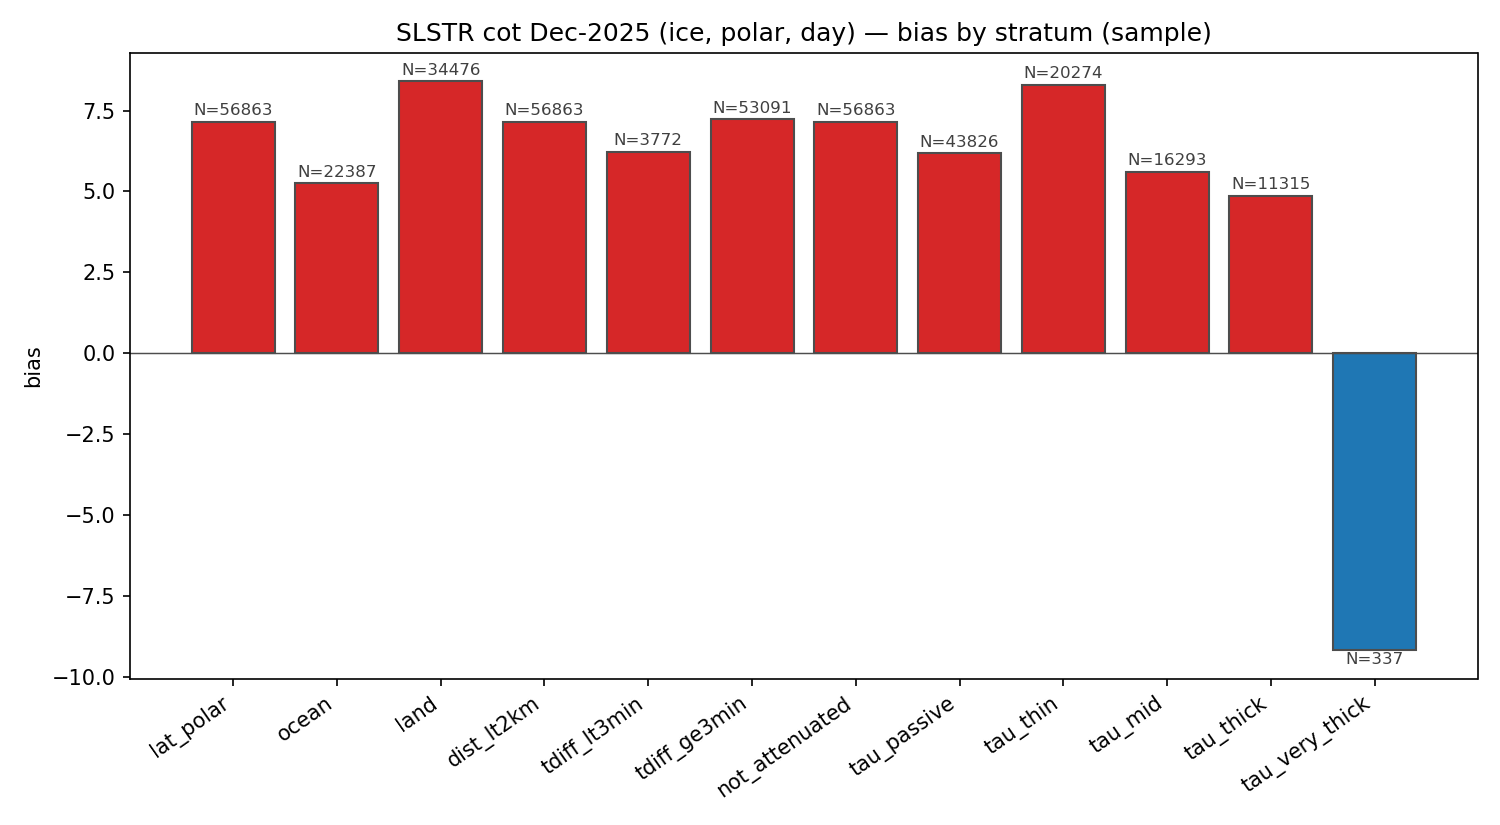
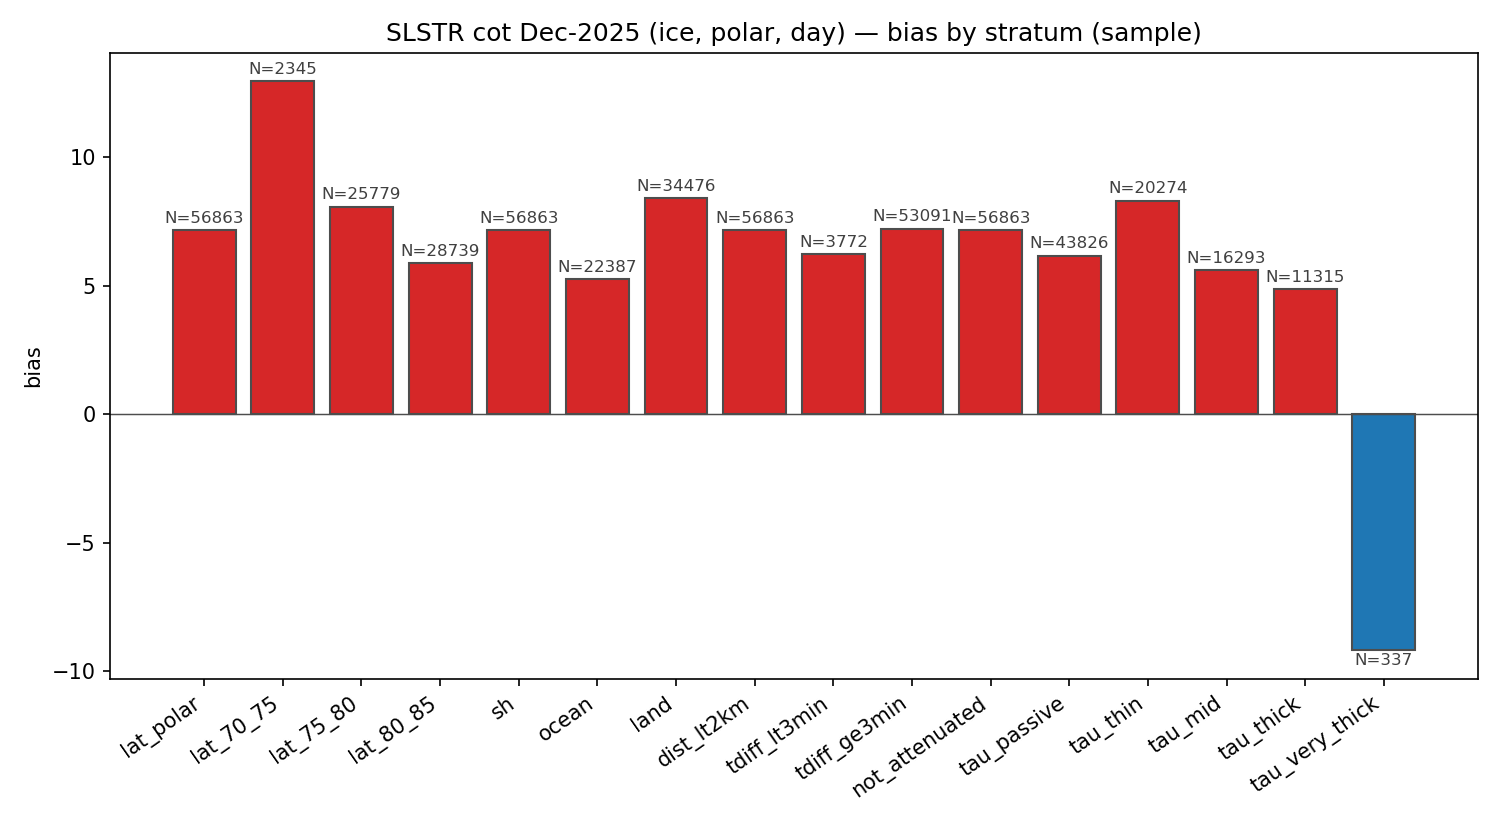
slstr: CER validation + polar sub-band/hemisphere strata + Δt/distance sensitivity
- CER-water validation (rode in the synergy collocation): bias +8 um, R~-0.1 -
  the weakest SLSTR variable in polar daytime (SWIR radius over bright ice/high
  SZA). New report docs/reports/slstr_cer_water_2025-12.md.
- Added polar sub-bands (70-75/75-80/80-85) + NH/SH hemisphere strata to
  statistics.py (additive; N=0 for geostationary SEVIRI). Reveals: CTH
  underestimation grows poleward and Arctic (-0.90 km) is ~3x Antarctic (-0.28);
  water/ice COT bias concentrated at 70-75deg (marginal ice zone), near-zero by
  80-85deg.
- Delta-t/distance sensitivity table (scripts/slstr_sensitivity_table.py):
  CTH bias/RMSE/R invariant across Dt 15-60 min x dist 1-3 km.
- Regenerated all stats CSVs + by-stratum figures; updated CTH & water-COT reports.

diff --git a/scripts/slstr_sensitivity_table.py b/scripts/slstr_sensitivity_table.py
@@ -1,0 +1,101 @@
+"""CTH sensitivity to the collocation thresholds (Δt and spatial distance).
+
+Shows the headline SLSTR CTH statistics are insensitive to the collocation
+thresholds — the defence for the 60-min / nearest-pixel choices. Computed from
+the existing full-month CTH matches (collocated at 60 min), so Δt is swept
+15→60 min and distance <1/<2/<3 km by post-hoc filtering (no re-collocation).
+The Δt sweep to 120 min is covered separately by figures/slstr_dt_sweep/.
+
+Usage: python scripts/slstr_sensitivity_table.py
+"""
+from __future__ import annotations
+
+import glob
+from pathlib import Path
+
+import matplotlib
+matplotlib.use("Agg")
+import matplotlib.pyplot as plt
+import numpy as np
+import pandas as pd
+
+OUT = Path("figures/slstr_sensitivity")
+OUT.mkdir(parents=True, exist_ok=True)
+O, A = "cth_orac_corrected_km", "cth_atlid_thick_km"
+DT_MIN = [15, 30, 45, 60]
+DIST_KM = [1, 2, 3]
+
+
+def load_qc_strict() -> pd.DataFrame:
+    paths = sorted(glob.glob("validation_data/slstr_cth_2025-12/matches_cth_*.csv"))
+    df = pd.concat([pd.read_csv(p) for p in paths], ignore_index=True)
+    # qc_strict base filter (mirrors statistics.CTH_QC_MODES['qc_strict'])
+    m = (
+        (df["valid_match"] == True)
+        & (df["cldmask_orac"] == 1)
+        & np.isfinite(df[O]) & np.isfinite(df[A])
+        & (df["quality_status_atlid"] == 0)
+        & (df["confidence_atlid"] >= 5)
+        & (df[A] <= df["tropopause_km_atlid"] + 2)
+    )
+    return df[m].copy()
+
+
+def main() -> int:
+    d = load_qc_strict()
+    print(f"qc_strict base: {len(d):,} profiles")
+    rows = []
+    for dt in DT_MIN:
+        for dc in DIST_KM:
+            s = d[(d["time_diff_s"] <= dt * 60) & (d["distance_km"] < dc)]
+            if len(s) < 50:
+                rows.append(dict(dt_min=dt, dist_km=dc, n=len(s),
+                                 bias=np.nan, rmse=np.nan, r=np.nan))
+                continue
+            diff = s[O] - s[A]
+            rows.append(dict(
+                dt_min=dt, dist_km=dc, n=len(s),
+                bias=float(diff.mean()),
+                rmse=float(np.sqrt((diff**2).mean())),
+                r=float(np.corrcoef(s[O], s[A])[0, 1]),
+            ))
+    t = pd.DataFrame(rows)
+    t.to_csv(OUT / "slstr_cth_sensitivity.csv", index=False)
+
+    # heatmaps of bias / RMSE / R over the (Δt, distance) grid
+    fig, ax = plt.subplots(1, 3, figsize=(15, 4))
+    for k, (col, label, cmap) in enumerate([
+        ("bias", "bias [km]", "RdBu_r"),
+        ("rmse", "RMSE [km]", "viridis"),
+        ("r", "Pearson R", "viridis"),
+    ]):
+        piv = t.pivot(index="dist_km", columns="dt_min", values=col)
+        vlim = max(abs(np.nanmin(piv.values)), abs(np.nanmax(piv.values)))
+        im = ax[k].imshow(piv.values, cmap=cmap, aspect="auto",
+                          vmin=-vlim if col == "bias" else None,
+                          vmax=vlim if col == "bias" else None)
+        ax[k].set_xticks(range(len(DT_MIN))); ax[k].set_xticklabels(DT_MIN)
+        ax[k].set_yticks(range(len(DIST_KM))); ax[k].set_yticklabels(DIST_KM)
+        ax[k].set_xlabel("Δt window [min]"); ax[k].set_ylabel("distance cap [km]")
+        ax[k].set_title(label)
+        for (i, j), v in np.ndenumerate(piv.values):
+            ax[k].text(j, i, f"{v:.2f}", ha="center", va="center",
+                       color="k", fontsize=9)
+        fig.colorbar(im, ax=ax[k], shrink=0.8)
+    fig.suptitle("SLSTR CTH sensitivity to collocation thresholds "
+                 "(qc_strict, polar Dec-2025) — flat across the grid", fontsize=12.5)
+    fig.tight_layout(rect=[0, 0, 1, 0.94])
+    fig.savefig(OUT / "slstr_cth_sensitivity.png", dpi=140)
+    plt.close(fig)
+
+    pd.set_option("display.width", 120)
+    print(t.to_string(index=False))
+    print(f"\nwrote {OUT/'slstr_cth_sensitivity.png'} and .csv")
+    print(f"bias range across grid: {t['bias'].min():.2f} .. {t['bias'].max():.2f} km")
+    print(f"RMSE range: {t['rmse'].min():.2f} .. {t['rmse'].max():.2f} km  |  "
+          f"R range: {t['r'].min():.3f} .. {t['r'].max():.3f}")
+    return 0
+
+
+if __name__ == "__main__":
+    raise SystemExit(main())

diff --git a/validation/statistics.py b/validation/statistics.py
@@ -129,6 +129,7 @@ def cot_strata(
         "lat_tropics": lambda d: np.abs(d[lat_col]) < 30,
         "lat_midlat":  lambda d: (np.abs(d[lat_col]) >= 30) & (np.abs(d[lat_col]) < 60),
         "lat_polar":   lambda d: np.abs(d[lat_col]) >= 60,
+        **_polar_strata(lat_col),
         # Surface type: ORAC `lsflag` (0 = ocean, 1 = land). Pixel-aggregate
         # rows take the modal value via mean>0.5 (one row per pixel; equivalent).
         "ocean": lambda d: (d[lsflag_col] < 0.5) if lsflag_col in d.columns else pd.Series(False, index=d.index),
@@ -246,6 +247,20 @@ def cot_report(
 # CTH report
 # ---------------------------------------------------------------------------
 
+def _polar_strata(lat_col: str) -> dict[str, StratumFn]:
+    """Polar sub-bands and hemisphere splits. All empty away from the poles, so
+    they only populate for the SLSTR × EarthCARE (crossing-limited) collocation,
+    where the whole sample lives in |lat| 70–83°. Additive: they add rows to the
+    stats table and are ignored (N=0) for the geostationary SEVIRI collocation."""
+    return {
+        "lat_70_75": lambda d: (np.abs(d[lat_col]) >= 70) & (np.abs(d[lat_col]) < 75),
+        "lat_75_80": lambda d: (np.abs(d[lat_col]) >= 75) & (np.abs(d[lat_col]) < 80),
+        "lat_80_85": lambda d: (np.abs(d[lat_col]) >= 80) & (np.abs(d[lat_col]) < 85),
+        "nh": lambda d: d[lat_col] > 0,
+        "sh": lambda d: d[lat_col] < 0,
+    }
+
+
 def _surface_strata(lsflag_col: str, lat_col: str, dist_col: str,
                     tdiff_col: str) -> dict[str, StratumFn | None]:
     return {
@@ -255,6 +270,7 @@ def _surface_strata(lsflag_col: str, lat_col: str, dist_col: str,
         "lat_tropics": lambda d: np.abs(d[lat_col]) < 30,
         "lat_midlat":  lambda d: (np.abs(d[lat_col]) >= 30) & (np.abs(d[lat_col]) < 60),
         "lat_polar":   lambda d: np.abs(d[lat_col]) >= 60,
+        **_polar_strata(lat_col),
         "dist_lt2km":   lambda d: d[dist_col] < 2,
         "dist_2_5km":   lambda d: (d[dist_col] >= 2) & (d[dist_col] < 5),
         "dist_ge5km":   lambda d: d[dist_col] >= 5,
@@ -590,6 +606,7 @@ def cth_strata(
         "lat_tropics": lambda d: np.abs(d[lat_col]) < 30,
         "lat_midlat":  lambda d: (np.abs(d[lat_col]) >= 30) & (np.abs(d[lat_col]) < 60),
         "lat_polar":   lambda d: np.abs(d[lat_col]) >= 60,
+        **_polar_strata(lat_col),
         "cth_low":  lambda d: d[cth_atlid_col] < 3,
         "cth_mid":  lambda d: (d[cth_atlid_col] >= 3) & (d[cth_atlid_col] < 7),
         "cth_high": lambda d: d[cth_atlid_col] >= 7,

diff --git a/docs/reports/slstr_cer_water_2025-12.md b/docs/reports/slstr_cer_water_2025-12.md
@@ -1,0 +1,84 @@
+# ORAC SLSTR water-cloud effective-radius validation against EarthCARE ACM-CAP — December 2025
+
+Liquid-cloud effective-radius (CER) validation of **ORAC SLSTR** (Sentinel-3A)
+against ACM-CAP `liquid_effective_radius`, December 2025. Uses the same daytime,
+polar (Antarctic-summer) synergy collocation as the water-COT report
+(`docs/reports/slstr_cot_water_2025-12.md`) — CER rode along in the same match
+(`cer_orac`, `cer_water_atlid` already in the synergy CSVs), so it needed no new
+collocation.
+
+## 1. Sample and method
+
+- **Reference**: ACM-CAP `liquid_effective_radius` (µm), pixel-aggregated over
+  liquid-only ATLID profiles.
+- **Coverage**: daytime (`illum_orac == 1`) → Antarctic summer, high SZA (~69°),
+  N = 173 015 SLSTR pixels (pixel view), water-pure.
+- **Metric**: CER is not heavy-tailed like COT, so **linear `r` is the meaningful
+  correlation** here (not `r_log`).
+
+## 2. Headline results (qc_strict, pixel)
+
+| stratum        |    N    | bias (µm) | RMSE (µm) |   R    |
+| -------------- | ------- | --------- | --------- | ------ |
+| **all**        | 173 015 | **+8.37** | 19.9      | −0.11  |
+| ocean          |  70 648 | +6.33     | 17.7      | −0.02  |
+| land           | 102 367 | +9.78     | 21.4      | −0.15  |
+| lat_70–75°     |  10 735 | +9.04     | 19.4      | −0.02  |
+| lat_75–80°     |  79 726 | +8.27     | 19.6      | −0.10  |
+| lat_80–85°     |  82 554 | +8.38     | 20.3      | −0.13  |
+
+The headline:
+
+> **ORAC SLSTR overestimates liquid effective radius by ≈ +8 µm with essentially
+> no skill (R ≈ −0.1) in Antarctic-summer daytime.** The bias is flat across the
+> polar sub-bands and slightly worse over the ice sheet (+9.8) than sea-ice (+6.3).
+
+## 3. Interpretation
+
+CER is the **weakest** of the SLSTR retrievals in this regime — worse even than
+COT. The near-zero / negative correlation means ORAC's CER is not tracking the
+real particle size at all here. The drivers are the familiar polar-daytime stack,
+but CER is especially exposed:
+
+- ORAC CER comes from the **SWIR (1.6 / 2.2 µm) reflectance**, which over bright
+  snow/ice at **high solar zenith** has very low cloud-to-surface contrast — the
+  information content for particle size is nearly gone.
+- **Phase and partial-cloud** contamination (as for COT) add scatter with no
+  compensating signal.
+
+This is a **flagged regime**, not a general CER verdict: it says nothing about
+ORAC CER at moderate sun over dark surfaces (which the SLSTR × EarthCARE geometry
+cannot sample — see the CTH report §1). It does say that **CER should not be
+trusted over bright polar surfaces in low-sun conditions**, which is directly
+relevant to the `v5.1_new_snowice` assessment.
+
+## 4. Figures
+
+`figures/slstr_cer_water_2025-12/`: `cer_water_scatter.png` (a near-structureless
+cloud — the visual signature of R ≈ 0), bias/R-by-stratum, QC sensitivity.
+
+## 5. Where CER sits among the SLSTR variables
+
+| variable | polar-daytime skill |
+| -------- | ------------------- |
+| CTH (thermal)        | **good** — bias −0.57 km, R 0.58 |
+| water COT (solar)    | modest — +3 (−0.65 phase-agreed), r_log 0.11 |
+| ice COT (solar)      | poor — +7, r_log 0.17 |
+| **CER (solar/SWIR)** | **worst — +8 µm, R ≈ −0.1** |
+
+The gradient is the same physical story: **thermal retrievals survive the polar
+bright-surface regime; solar retrievals degrade, and the SWIR-based CER degrades
+most.**
+
+## 6. Reproducibility
+
+```bash
+# CER rides in the water-COT synergy collocation; only evaluate/figures differ:
+python -m validation cer-water-evaluate \
+    --matches 'validation_data/slstr_synergy_2025-12_day/matches_synergy_*.csv' \
+    --out validation_data/slstr_cer_water_2025-12.csv
+python -m validation cer-water-figures \
+    --matches 'validation_data/slstr_synergy_2025-12_day/matches_synergy_*.csv' \
+    --qc-mode qc_strict --label "SLSTR cer water Dec-2025 (polar, day)" \
+    --out figures/slstr_cer_water_2025-12
+```

diff --git a/docs/reports/slstr_cth_2025-12.md b/docs/reports/slstr_cth_2025-12.md
@@ -99,6 +99,39 @@ Notable structure:
 - **Geometry is not a driver**: every match is < 2 km and the bias is flat in the
   Δt < 3 min subset, confirming the crossing collocation is tight.
 
+## 3b. Polar sub-bands, hemisphere, and threshold sensitivity
+
+Because the whole sample is polar, the single `lat_polar` bin is coarse. Splitting
+it (qc_strict, pixel) exposes structure:
+
+| stratum      |   N    | bias (km) | RMSE (km) |  R   |
+| ------------ | ------ | --------- | --------- | ---- |
+| lat 70–75°   | 20 975 | −0.34     | 1.75      | 0.65 |
+| lat 75–80°   | 50 079 | −0.52     | 1.99      | 0.61 |
+| lat 80–85°   | 91 202 | −0.65     | 2.19      | 0.55 |
+| **NH (Arctic)**  | 75 443 | **−0.90** | 2.41  | 0.58 |
+| **SH (Antarctic)** | 86 813 | **−0.28** | 1.74 | 0.59 |
+
+Two findings the aggregate hid:
+
+1. **Underestimation grows poleward** — −0.34 km at 70–75° to −0.65 km at 80–85°.
+2. **Hemispheric asymmetry**: the **Arctic CTH is ~3× more underestimated than the
+   Antarctic** (−0.90 vs −0.28 km). December is Arctic polar night / Antarctic
+   polar day, so this is a night-vs-day and surface (winter sea-ice vs summer
+   ice-sheet/ocean) contrast worth following up — a candidate `v5.1_new_snowice`
+   signal.
+
+**Threshold sensitivity.** The headline is insensitive to the collocation
+thresholds. Sweeping Δt ∈ {15, 30, 45, 60} min × distance cap ∈ {1, 2, 3} km
+(`figures/slstr_sensitivity/slstr_cth_sensitivity.png`, `qc_strict`):
+
+- **bias −0.55 … −0.57 km**, **RMSE 2.08 … 2.11 km**, **R 0.58 … 0.60** across the
+  entire grid.
+- The distance cap barely changes N (matches are almost all < 1 km), and Δt
+  15→60 min moves bias by < 0.03 km. The 60-min / nearest-pixel choices do not
+  drive the result. (The Δt sweep to 120 min, `figures/slstr_dt_sweep/`, extends
+  this — agreement is flat there too.)
+
 ## 4. Figures
 
 All under `figures/slstr_cth_2025-12/` (full month) and

diff --git a/docs/reports/slstr_cot_water_2025-12.md b/docs/reports/slstr_cot_water_2025-12.md
@@ -63,6 +63,23 @@ Key reads:
   ambiguity, high SZA, partial cloud), consistent with the SEVIRI water-COT
   experience that COT validates far more loosely than CTH.
 
+## 3b. Polar sub-band gradient
+
+Splitting the polar band (qc_strict, pixel) shows the +3 all-stratum bias is not
+uniform — it is concentrated at the **lower** polar latitudes:
+
+| stratum    |   N    | bias (τ) | RMSE (τ) | r_log |
+| ---------- | ------ | -------- | -------- | ----- |
+| lat 70–75° | 10 735 | **+29.2**| 69.6     | 0.16  |
+| lat 75–80° | 79 726 | +5.36    | 40.6     | 0.09  |
+| lat 80–85° | 82 554 | **−2.44**| 21.6     | 0.15  |
+
+At 80–85° the water-COT bias is actually near zero / slightly negative with RMSE
+halved; the large positive bias lives at 70–75° (the sea-ice edge / more broken,
+optically thicker cloud with the brightest partial-cloud contrast). The ice-COT
+report shows the same monotonic improvement poleward (+13 → +5.8). This localises
+the bright-surface / partial-cloud inflation to the marginal-ice-zone latitudes.
+
 ## 4. Figures
 
 `figures/slstr_cot_water_2025-12/`:
